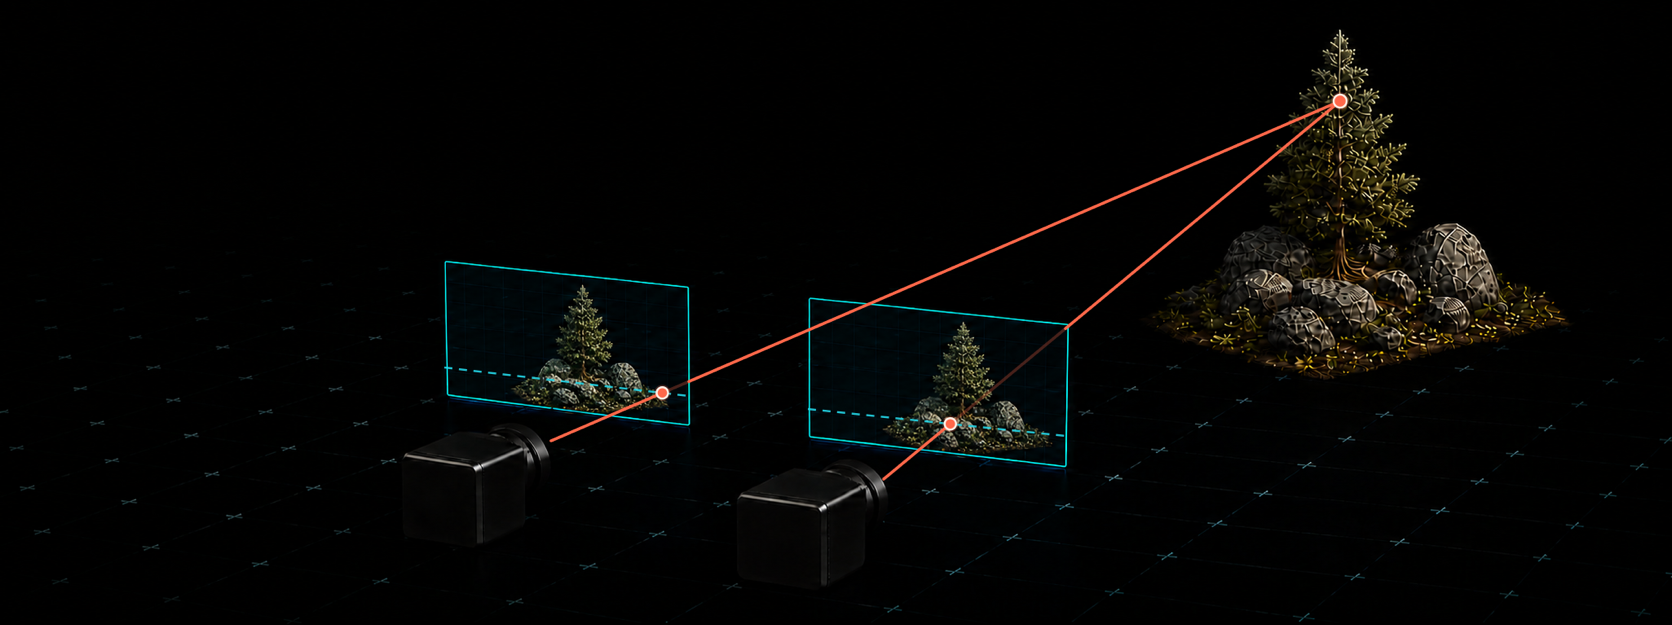
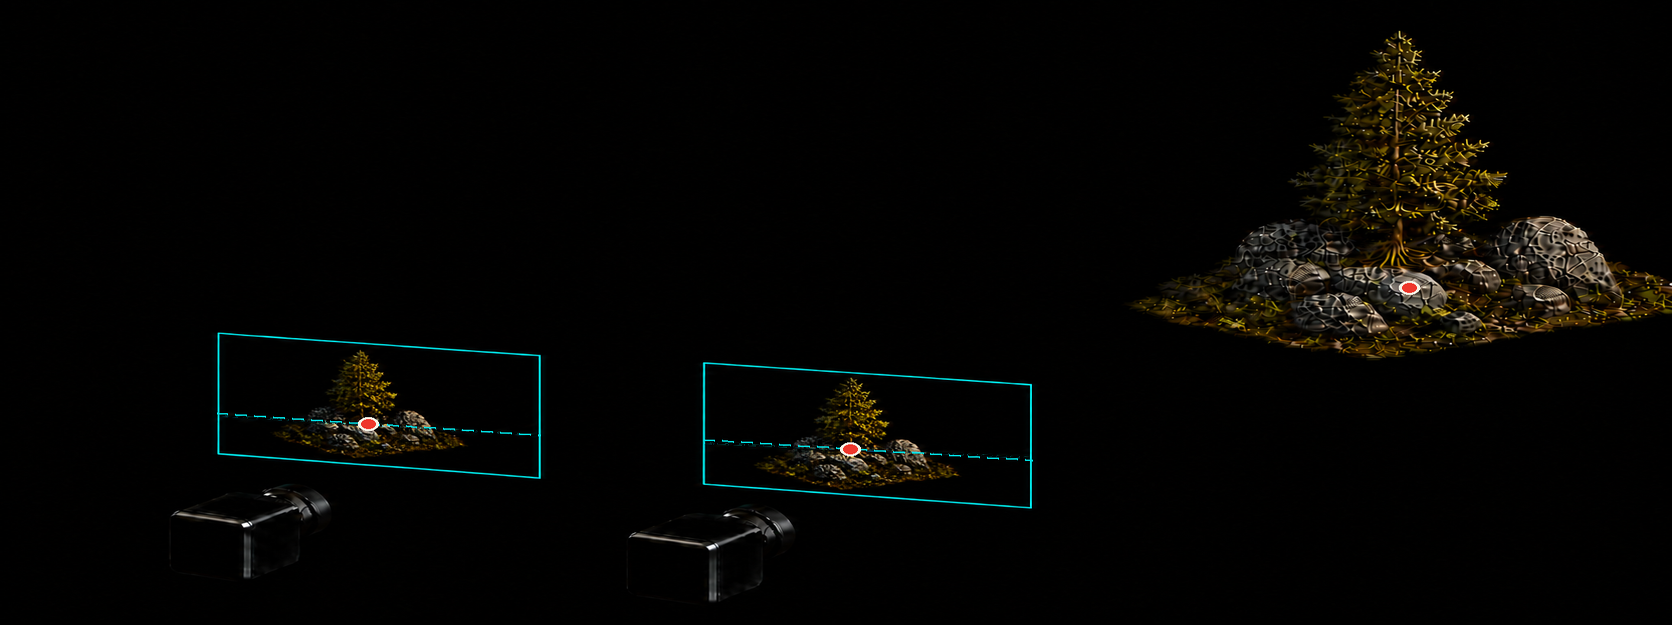
Finalize teaser geometry and presentation

diff --git a/app/page.tsx b/app/page.tsx
@@ -73,18 +73,18 @@ const visualizations: Visualization[] = [
     href: "https://csprofkgd.github.io/parallel-stereo-visualization/",
   },
   {
-    slug: "planar-homography",
-    title: "Planar Homography",
-    description: "Plane-to-plane projective mapping.",
-    category: "Projective Geometry",
-    href: "https://csprofkgd.github.io/planar-homography-lab/",
-  },
-  {
     slug: "epipolar-geometry",
     title: "Epipolar Geometry",
     description: "The geometry behind stereo vision.",
     category: "Projective Geometry",
     href: "https://csprofkgd.github.io/epipolar-geometry-visualization/",
+  },
+  {
+    slug: "planar-homography",
+    title: "Planar Homography",
+    description: "Plane-to-plane projective mapping.",
+    category: "Projective Geometry",
+    href: "https://csprofkgd.github.io/planar-homography-lab/",
   },
   {
     slug: "perspective-projection",
@@ -101,6 +101,8 @@ const visualizations: Visualization[] = [
     href: "https://drive.google.com/file/d/1170Cbv73a7XmUNXWXli-rCGe7KW_KXXF/view?usp=share_link",
   },
 ];
+
+const TEASER_ASSET_VERSION = "20260825-final";
 
 export default function Home() {
   const [theme, setTheme] = useState<Theme>("dark");
@@ -172,13 +174,13 @@ export default function Home() {
               <picture>
                 <img
                   className="teaser-image teaser-light"
-                  src={`/teasers/${item.slug}-light.png`}
+                  src={`/teasers/${item.slug}-light.png?v=${TEASER_ASSET_VERSION}`}
                   alt={`${item.title} light-mode teaser`}
                   loading={index < 2 ? "eager" : "lazy"}
                 />
                 <img
                   className="teaser-image teaser-dark"
-                  src={`/teasers/${item.slug}-dark.png`}
+                  src={`/teasers/${item.slug}-dark.png?v=${TEASER_ASSET_VERSION}`}
                   alt={`${item.title} dark-mode teaser`}
                   loading={index < 2 ? "eager" : "lazy"}
                 />

diff --git a/scripts/fix_stereo_epipolar.py b/scripts/fix_stereo_epipolar.py
@@ -1,0 +1,90 @@
+from pathlib import Path
+
+from PIL import Image, ImageDraw
+
+
+ROOT = Path(__file__).resolve().parents[1]
+SOURCE = Path(
+    "/Users/kosta/.codex/generated_images/"
+    "01a0396b-3a11-7392-ba1d-7b8395e70743/"
+    "exec-c291136d-f265-471d-9994-1dab0fdcc46f.png"
+)
+OUTPUT = ROOT / "public/masters/parallel-stereo-master.png"
+
+
+def erase_cyan_dashes(image: Image.Image, x0: int, x1: int, y_at_x) -> None:
+    pixels = image.load()
+    original = image.copy().load()
+    for x in range(x0, x1 + 1):
+        center_y = round(y_at_x(x))
+        for y in range(center_y - 10, center_y + 11):
+            r, g, b = original[x, y]
+            if r < 70 and g > 105 and b > 105:
+                samples = []
+                for delta in (-13, -11, 11, 13):
+                    sr, sg, sb = original[x, y + delta]
+                    if not (sr < 70 and sg > 105 and sb > 105):
+                        samples.append((sr, sg, sb))
+                if samples:
+                    pixels[x, y] = tuple(sum(v[i] for v in samples) // len(samples) for i in range(3))
+
+
+def dashed_line(draw: ImageDraw.ImageDraw, start, end, fill, width=3, dash=11, gap=8) -> None:
+    x0, y0 = start
+    x1, y1 = end
+    length = ((x1 - x0) ** 2 + (y1 - y0) ** 2) ** 0.5
+    position = 0.0
+    while position < length:
+        stop = min(position + dash, length)
+        a = position / length
+        b = stop / length
+        draw.line(
+            (
+                x0 + (x1 - x0) * a,
+                y0 + (y1 - y0) * a,
+                x0 + (x1 - x0) * b,
+                y0 + (y1 - y0) * b,
+            ),
+            fill=fill,
+            width=width,
+        )
+        position += dash + gap
+
+
+def line_through_point_parallel_to_edge(edge_start, edge_end, point):
+    x0, y0 = edge_start
+    x1, y1 = edge_end
+    px, py = point
+    slope = (y1 - y0) / (x1 - x0)
+    return (x0, py + slope * (x0 - px)), (x1, py + slope * (x1 - px)), slope
+
+
+def main() -> None:
+    image = Image.open(SOURCE).convert("RGB")
+
+    # Existing generative dashes, used only to identify and remove cyan pixels.
+    erase_cyan_dashes(image, 217, 540, lambda x: 625 + (655 - 625) * (x - 217) / (540 - 217))
+    erase_cyan_dashes(image, 704, 1032, lambda x: 668 + (690 - 668) * (x - 704) / (1032 - 704))
+
+    draw = ImageDraw.Draw(image)
+    cyan = (0, 226, 230)
+    red = (238, 55, 43)
+    marker_outline = (247, 245, 231)
+
+    left_point = (368, 638)
+    right_point = (850, 676)
+    left_start, left_end, _ = line_through_point_parallel_to_edge((217, 501), (540, 534), left_point)
+    right_start, right_end, _ = line_through_point_parallel_to_edge((704, 547), (1032, 578), right_point)
+
+    dashed_line(draw, left_start, left_end, cyan)
+    dashed_line(draw, right_start, right_end, cyan)
+
+    for x, y in (left_point, right_point, (1409, 433)):
+        draw.ellipse((x - 10, y - 10, x + 10, y + 10), fill=red, outline=marker_outline, width=3)
+
+    OUTPUT.parent.mkdir(parents=True, exist_ok=True)
+    image.save(OUTPUT, optimize=True)
+
+
+if __name__ == "__main__":
+    main()

diff --git a/scripts/prepare_teasers.py b/scripts/prepare_teasers.py
@@ -1,0 +1,81 @@
+from pathlib import Path
+
+from PIL import Image, ImageDraw
+
+
+ROOT = Path(__file__).resolve().parents[1]
+TEASERS = ROOT / "public/teasers"
+GENERATED = Path(
+    "/Users/kosta/.codex/generated_images/"
+    "01a0396b-3a11-7392-ba1d-7b8395e70743"
+)
+SIZE = (1672, 625)
+
+
+def resize(source: Path) -> Image.Image:
+    return Image.open(source).convert("RGB").resize(SIZE, Image.Resampling.LANCZOS)
+
+
+def save_pair(image: Image.Image, slug: str) -> None:
+    for theme in ("dark", "light"):
+        image.save(TEASERS / f"{slug}-{theme}.png", optimize=True)
+
+
+def sphere_assets() -> None:
+    cubemap = resize(GENERATED / "exec-b3dd34aa-e572-464a-bc41-bb3e506979ad.png")
+    erp = resize(GENERATED / "exec-4a029350-60e5-4701-b7c3-56c301f972d1.png")
+    save_pair(cubemap, "sphere-to-cubemap")
+    save_pair(erp, "sphere-to-erp")
+
+
+def homography_asset() -> None:
+    image = resize(ROOT / "public/masters/planar-homography-master.png")
+    save_pair(image, "planar-homography")
+
+
+def stereo_asset() -> None:
+    image = resize(ROOT / "public/masters/parallel-stereo-master.png")
+    save_pair(image, "parallel-stereo")
+
+
+def perspective_asset() -> None:
+    image = resize(GENERATED / "exec-840f9024-4186-425f-8082-6a34b9a9373e.png")
+    draw = ImageDraw.Draw(image)
+
+    # The opaque pinhole plate hides only the short portion centered on the
+    # pinhole. The incident and post-plate portions remain fully cyan.
+    draw.line((824, 246, 866, 257), fill=(57, 75, 78), width=4)
+    draw.ellipse((838, 244, 854, 260), fill=(255, 164, 111), outline=(235, 239, 232), width=2)
+    save_pair(image, "perspective-projection")
+
+
+def epipolar_asset() -> None:
+    image = Image.open(TEASERS / "epipolar-geometry-dark.png").convert("RGB")
+    draw = ImageDraw.Draw(image)
+    orange = (255, 101, 66)
+    subdued = (117, 64, 49)
+
+    # Re-establish bright, perfectly collinear camera-to-world rays.
+    draw.line((301, 495, 838, 64), fill=orange, width=4)
+    draw.line((1363, 495, 838, 64), fill=orange, width=4)
+
+    # Dim only the portions that are directly behind the finite image-plane
+    # footprints in screen space; everything before and after stays bright.
+    draw.line((366, 443, 599, 256), fill=subdued, width=4)
+    draw.line((1068, 279, 1306, 470), fill=subdued, width=4)
+
+    for x, y in ((495, 335), (1196, 351), (838, 64)):
+        draw.ellipse((x - 8, y - 8, x + 8, y + 8), fill=orange, outline=(255, 210, 188), width=2)
+    save_pair(image, "epipolar-geometry")
+
+
+def main() -> None:
+    sphere_assets()
+    homography_asset()
+    stereo_asset()
+    perspective_asset()
+    epipolar_asset()
+
+
+if __name__ == "__main__":
+    main()

diff --git a/scripts/fix_homography.py b/scripts/fix_homography.py
@@ -1,0 +1,63 @@
+from pathlib import Path
+
+from PIL import Image, ImageDraw
+
+
+ROOT = Path(__file__).resolve().parents[1]
+SOURCE = Path(
+    "/Users/kosta/.codex/generated_images/"
+    "01a0396b-3a11-7392-ba1d-7b8395e70743/"
+    "exec-b92797f8-8ba9-449d-88a5-6752f0e2b429.png"
+)
+OUTPUT = ROOT / "public/teasers/planar-homography-master.png"
+
+
+def main() -> None:
+    image = Image.open(SOURCE).convert("RGB")
+
+    # Source quadrilateral, ordered UL, UR, LR, LL. These are the cyan
+    # quadrilateral corners beneath the marker centers in the master render.
+    ul = (248, 101)
+    ur = (656, 221)
+    lr = (656, 604)
+    ll = (246, 649)
+
+    # Destination rectified image, ordered UL, UR, LR, LL.
+    dul = (1197, 104)
+    dur = (1919, 104)
+    dlr = (1919, 649)
+    dll = (1197, 649)
+    width = dur[0] - dul[0]
+    height = dll[1] - dul[1]
+
+    # PIL QUAD expects source UL, LL, LR, UR for a rectangular output. This
+    # is a single projective resampling of the selected source patch, not an
+    # independently recomposed portrait.
+    patch = image.transform(
+        (width, height),
+        Image.Transform.QUAD,
+        (ul[0], ul[1], ll[0], ll[1], lr[0], lr[1], ur[0], ur[1]),
+        resample=Image.Resampling.BICUBIC,
+    )
+    image.paste(patch, dul)
+
+    draw = ImageDraw.Draw(image)
+    cyan = (29, 219, 239)
+    stroke = 5
+    draw.rectangle((dul[0], dul[1], dur[0], dlr[1]), outline=cyan, width=stroke)
+
+    markers = [
+        (dul, (255, 103, 67)),
+        (dur, (255, 195, 57)),
+        (dll, (42, 195, 232)),
+        (dlr, (153, 111, 229)),
+    ]
+    radius = 17
+    for (x, y), color in markers:
+        draw.ellipse((x - radius, y - radius, x + radius, y + radius), fill=color)
+
+    image.save(OUTPUT, optimize=True)
+
+
+if __name__ == "__main__":
+    main()

diff --git a/context.md b/context.md
@@ -19,20 +19,21 @@ Updated: 2026-08-25
 - Hero images reach the card's left/right/top edges inside the outer silhouette.
 - The hero-to-copy boundary is one straight horizontal seam, aligned across every card in a row.
 - No light/dark scale shift, no strip or mismatched background under a teaser.
+- Teaser URLs carry a release query string so browsers cannot reuse superseded raster assets after publishing.
 - The complete card is clickable; no arrow or “Open visualization” label.
 
 ## Accepted content and replacements
 
 - Perspective Projection: use the new photoreal scene with tree/rocks, opaque pinhole plane, one ray, and inverted image-plane projection. The incident ray remains visible from the world point to the pinhole; only the outgoing portion directly behind the opaque plane is subdued, and full cyan resumes exactly at the projected plane boundary before continuing to the image point.
-- Sphere to Cubemap and Sphere to Equirectangular Projection: use the outpainted compositions with black background at every raster edge and modest breathing room around the complete globe and mapping diagram. Preserve the legitimate cyan latitude/longitude arcs and the cubemap/ERP segment outlines. At the highlighted lower latitude only, omit the short cyan fragment directly crossing each orange seam while leaving the surrounding grid intact. Do not restore CSS downscaling that exposes the card surface.
-- Parallel Stereo: use the conifer-and-rock 3D scene from Perspective Projection and compact matte-black machine-vision cameras matching the Epipolar Geometry teaser style. The two cameras are rigid translations with identical orientation, flat tops, plain flat port-free rear panels, and matching partially visible front lens barrels. Camera bodies, optical axes, rear faces, and rendered image planes are mutually parallel. Exactly two deterministic projection rays run front-lens optical center → corresponding rendered pixel → one common world point; both rendered pixels use the same normalized horizontal scanline coordinate. Only the short world-side ray portion visually behind each image plane is subdued; camera-side and post-plane portions remain full opacity.
+- Sphere to Cubemap and Sphere to Equirectangular Projection: use the outpainted compositions with black background at every raster edge and modest breathing room around the complete globe and mapping diagram. Preserve every legitimate cyan latitude/longitude arc and every cyan cubemap/ERP segment outline. Remove the orange/coral vertical meridian and all associated glow from both representations.
+- Parallel Stereo: use the conifer-and-rock scene and compact matte-black cameras. Draw no projection rays. The two image planes show matching views, each with one cyan dashed epipolar line around its middle. Each dashed line is mathematically parallel to its own image plane's top/bottom boundaries and passes exactly through its red corresponding-point marker. Both image markers and the large-scene marker identify the same distinctive central light-gray rock. Draw no ground-plane crosses.
 - Stereo Rectification, Epipolar Geometry, Local Minimum, and Parallel Stereo use outpainted compositions with black background at every raster edge and breathing room around all cameras, points, surfaces, paths, and image planes. Stereo Rectification retains only the outer source quadrilateral, four source corner markers, outer destination rectangle, photographs, and arrow; no internal cyan/red guide lines.
 - Partial Derivatives: use the new simplified saddle, one vertical slice plane, true intersection curve, and tangent line. Do not use the older two-plane image.
-- Planar Homography: no correspondence lines. Use the exact author portrait from the hero card on both the wall plane and the rectified plane, with four uniquely colored paired corner points.
+- Planar Homography: no correspondence lines. Use the exact author portrait from the hero card on the wall plane. The right portrait must be the direct deterministic projective warp of the exact selected left quadrilateral—not a fresh crop or regenerated portrait—with all four uniquely colored corner pairs and the same shoulder features touching the corresponding bottom corners.
 - Epipolar Geometry: use the clean outline-only triangle through the cameras and one world point. Remove the misleading translucent interior overlap and draw no epipolar line on either image plane; retain the cameras, baseline, rays, and one projection point per image plane. Both image-plane quadrilaterals must have complete lower boundaries. Only the short ray portions directly behind the image planes are subdued.
 - Local Minimum subtitle: “Why local minima are rarely the problem.”
 - System of Equations card title: “Linear Systems as Geometry”.
-- Final row order: Epipolar Geometry, Perspective Projection, Correlation (aka "Convolution").
+- Last four card order: Epipolar Geometry, Planar Homography, Perspective Projection, Correlation (aka "Convolution").
 - Sphere to Cubemap and Sphere to Equirectangular Projection use the tighter accepted framing with reduced left/right empty margin while retaining modest breathing room and black raster edges.
 - Partial Derivatives uses the vertically outpainted accepted framing with additional top/bottom breathing room.
 - Correlation title: `Correlation (aka "Convolution")` and multiplication symbol `*` in the teaser. The active sliding 3×3 kernel over the input must use the same white-center/gray-cross/dark-corner weights as the displayed kernel immediately to the right of `*`.
@@ -55,4 +56,4 @@ Updated: 2026-08-25
 - [x] Programmatically compare hero height, copy-top Y position, and total card height for every row.
 - [x] Verify all source teaser files have identical dimensions and square raster corners.
 - [x] Do not complete or deploy until every requested change has been visually verified in the rendered page.
-- [x] Verify no browser errors in the validated local build. Confirm the production replacement assets immediately after deployment.
+- [ ] Verify no browser errors in the validated local build. Confirm the production replacement assets immediately after deployment.
